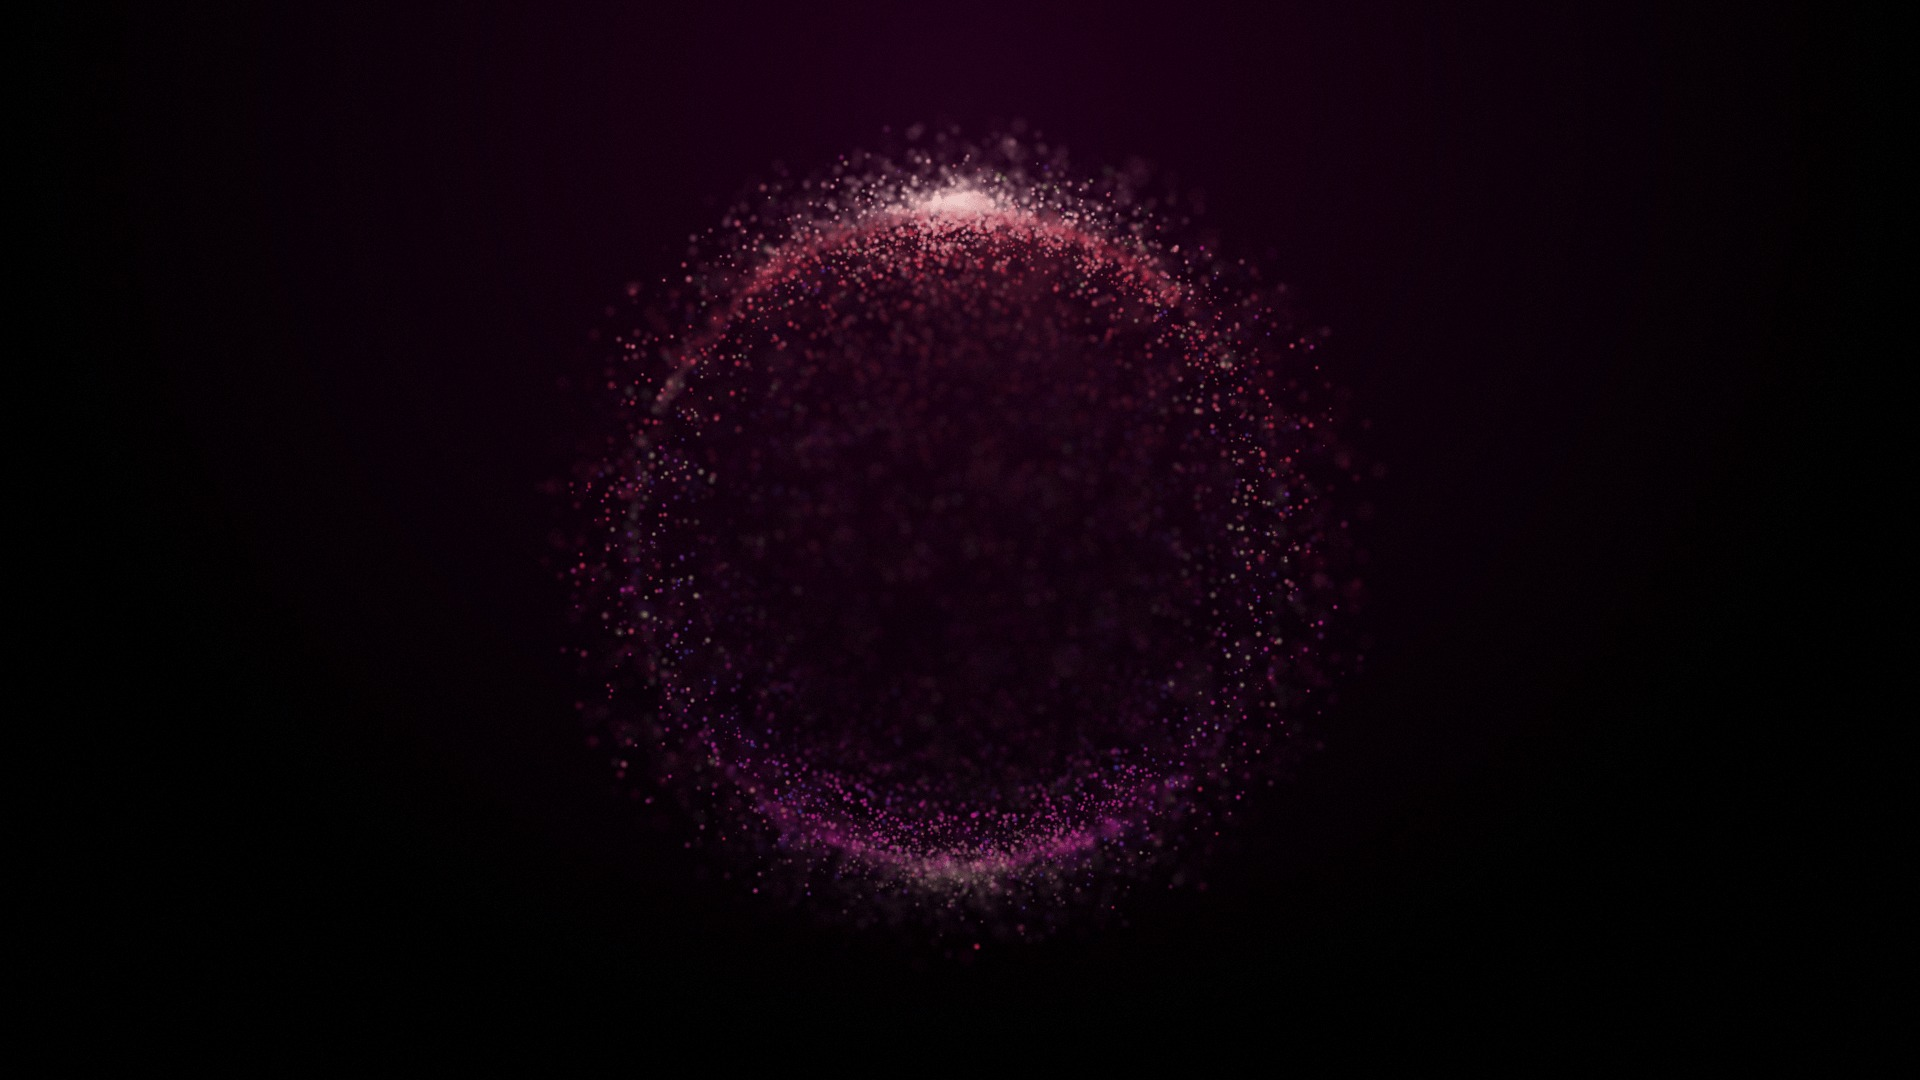
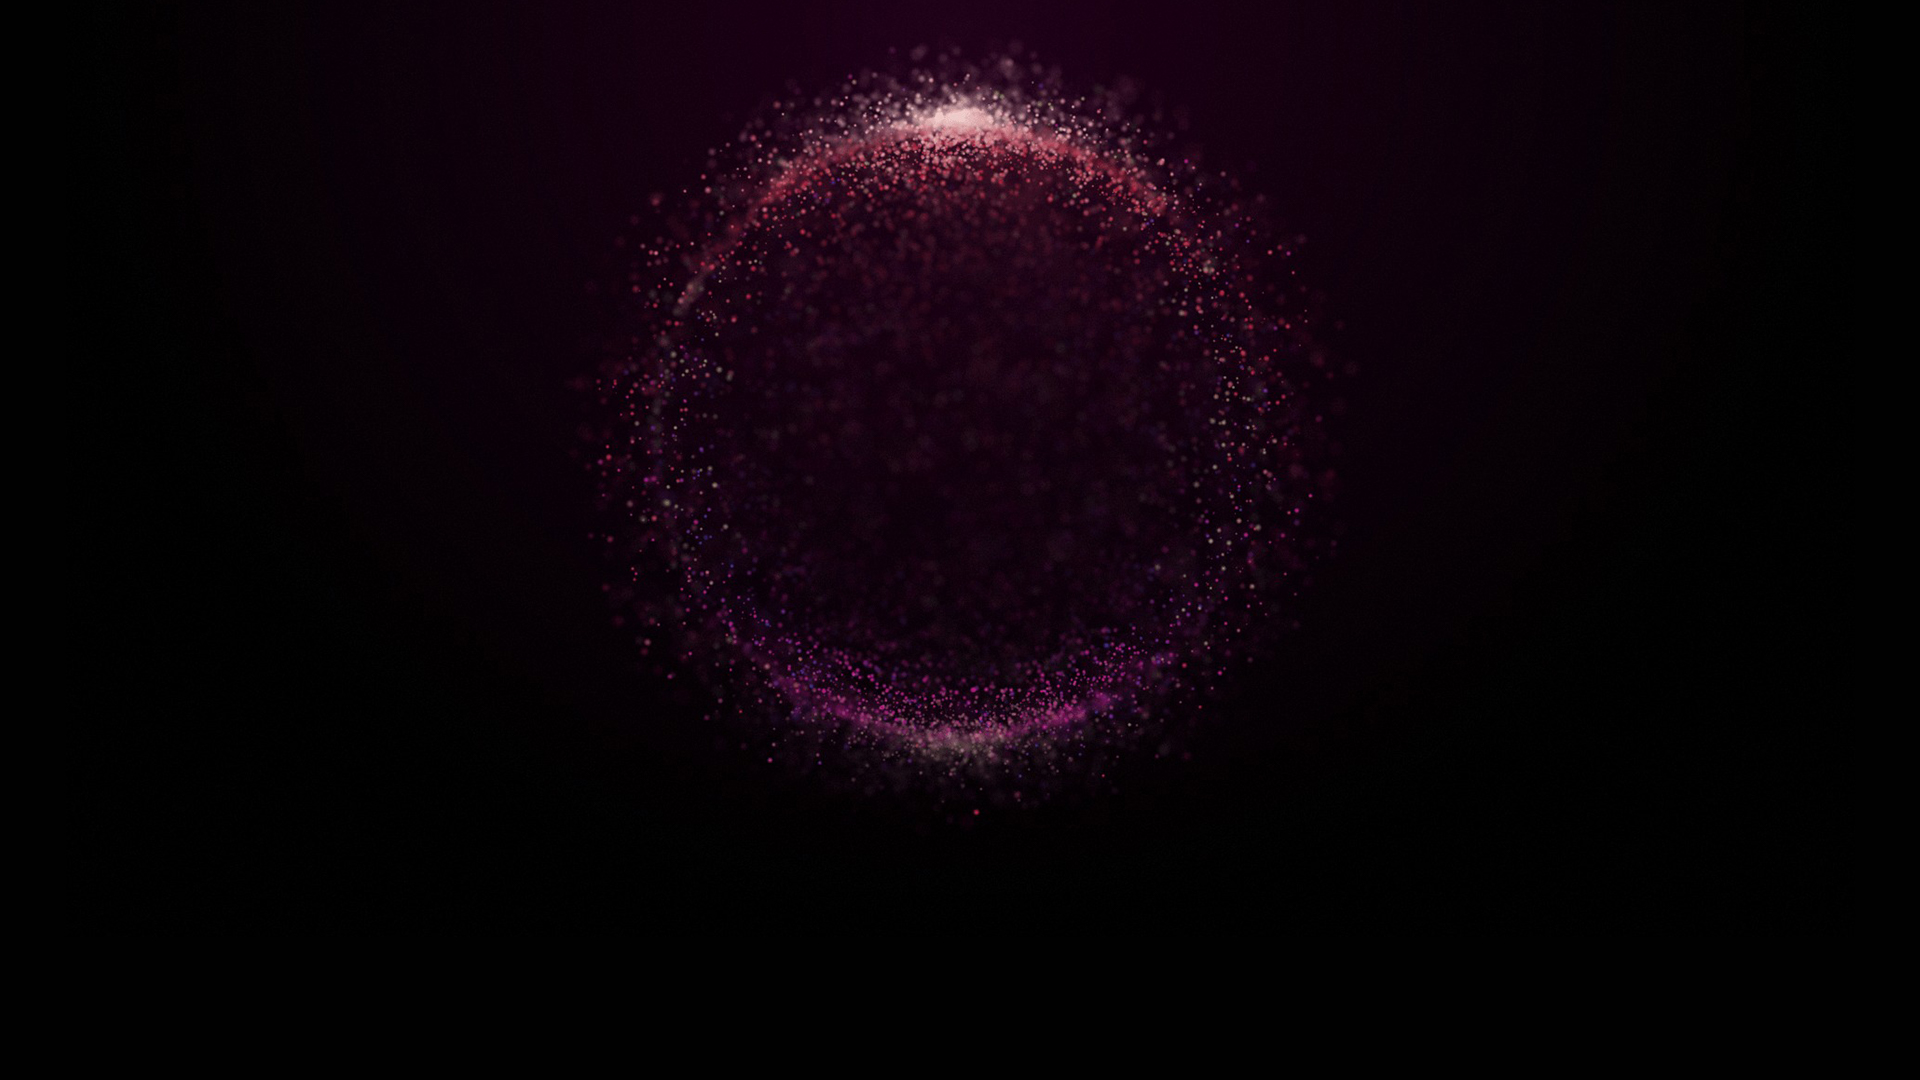
Final v1

Changed region(s): [[0.2812, 0.0611, 0.6875, 0.8556]]

diff --git a/index.html b/index.html
@@ -33,11 +33,11 @@
 
 	<div id="stick-detect"></div>
 	<div class="buttons">
-			<a class="logo">C T O C</a>
-			<a href="#speaker-start" >Speakers</a>
-			<a href="#schedule-start" >Schedule</a>
-			<a href="#map-start" >Location</a>
-			<a href="#modal" >Register</a>
+				<img src="logo.png" width="100" height="26" class="logo">
+				<a href="#speaker-start" >Speakers</a>
+				<a href="#schedule-start" >Schedule</a>
+				<a href="#map-start" >Location</a>
+				<a href="#modal" >Register</a>
 	</div>
 
 	<div class="main">
@@ -49,19 +49,8 @@
 					<h4>University at Texas Austin<br />
 						Computer Science</h4>
 					<p>I'm David J. Bruton Centennial Professor of Computer Science at the University of Texas at Austin. My research interests center around the capabilities and limits of quantum computers, and computational complexity theory more generally.</p>
-					<p><a class="link" href="https://www.scottaaronson.com/">More about Scott</a></p>
+					<p><a class="link" href="https://www.scottaaronson.com/" target="_blank">More about Scott</a></p>
 				</div>
-
-
-				<div class="card">
-					<img src="ryan.jpg">
-					<h3>Ryan<br />Williams</h3>
-					<h4>MIT<br/>
-						Computer Science</h4>
-					<p>I got a PhD from Carnegie Mellon and I was an undergrad at Cornell. In general, I try to understand what is easy and what is hard to compute. I work in algorithm design and complexity theory, and I especially like connections between the two subjects. </p>
-					<p><a class="link" href="https://people.csail.mit.edu/rrw/">More about Ryan</a></p>
-				</div>
-
 
 				<div class="card">
 					<img src="sipser.jpg">
@@ -69,9 +58,17 @@
 					<h4>MIT<br/>
 						Mathematics</h4>
 					<p>I am Professor of Mathematics and member of the Computer Science at MIT. My research areas are in algorithms and complexity theory, interactive proof systems, randomness, quantum computation, establishing inherent computational difficulty of problems.</p>
-					<p><a class="link" href="http://www-math.mit.edu/~sipser/">More about Michael</a></p>
+					<p><a class="link" href="http://www-math.mit.edu/~sipser/" target="_blank">More about Michael</a></p>
 				</div>
 
+				<div class="card">
+					<img src="cook.jpg">
+					<h3>Stephen<br />Cook</h3>
+					<h4>University of Toronto<br/>
+						Computer Science</h4>
+					<p>I am computer scientist and mathematician who has made major contributions to the fields of complexity theory and proof complexity. I am a university professor at the University of Toronto, Department of Computer Science and Department of Mathematics.</p>
+					<p><a class="link" href="http://www.cs.toronto.edu/~sacook/" target="_blank">More about Stephen</a></p>
+				</div>
 
 				<div class="card">
 					<img src="christos.jpg">
@@ -79,7 +76,7 @@
 					<h4>Columbia University<br/>
 						Computer Science</h4>
 					<p>I am best known for my work in computational complexity, helping to expand its methodology and reach. I have also explored other fields, having contributed to biology and the theory of evolution, economics, and game theory, artificial intelligence.</p>
-					<p><a class="link" href="https://engineering.columbia.edu/faculty/christos-papadimitriou">More about Christos</a></p>
+					<p><a class="link" href="https://engineering.columbia.edu/faculty/christos-papadimitriou" target="_blank">More about Christos</a></p>
 				</div>
 		</section>
 
@@ -97,7 +94,7 @@
 					<td class="timeslot">10:00  <br> | <br> 12:00</td>
 					<td><h5>Scott Aaronson</h5> Quantum Computing since Democritus </td>
 					<td><h5>Michael Sipser</h5> The Complexity of Finite Functions </td>
-					<td><h5>Ryan Williams</h5> Hardness Magnification for all Sparse NP Languages </td>				
+					<td><h5>Stephen Cook</h5> Hardness Magnification for all Sparse NP Languages </td>				
 				</tr>
 
 				<tr>
@@ -125,7 +122,7 @@
 					<td class="timeslot">16:00  <br> | <br> 18:00</td>
 					<td><h5>Christos Papadimitrou</h5>Combinatorial Optimization: Algorithms and Complexity</td>
 					<td><h5>Scott Aaronson</h5>Why Is Proving P ̸= NP Difficult</td>
-					<td><h5>Ryan Williams</h5>On the NP-Hardness of Computing Circuit Complexity</td>				
+					<td><h5>Stephen Cook</h5>On the NP-Hardness of Computing Circuit Complexity</td>				
 				</tr>
 			</table>
 		</section>
@@ -145,7 +142,7 @@
 					<div class="contact">
 						<div class="contact-left">
 							<p>Email</p>
-							<h4><a href="mailto:ctoc@manchester.edu.uk?subject=feedback">ctoc@manchester.edu.uk</a></h4>
+							<h4><a href="mailto:ctoc@manchester.edu?subject=feedback">ctoc@manchester.edu</a></h4>
 						</div>
 						<div class="contact-right">
 							<p>Phone</p>
@@ -160,7 +157,9 @@
 					</iframe>
 				</div>
 			</section>
-			<footer class="footer">“Sometimes it is the people no one can imagine anything of who do the things no one can imagine.” Alan Turing</footer>
+			<footer class="footer">“Sometimes it is the people no one can imagine anything of who do the things no one can imagine.” Alan Turing
+				<p>Copyright © 2020 CTOC</p>
+			</footer>
 		</div>
 	</div>
 

diff --git a/style.css b/style.css
@@ -21,7 +21,7 @@ body  {
 header	{
 	width: 100%;
 	height: 95%;
-	background-image: url('hero_updated.jpg');
+	background-image: url('hero.jpg');
 	background-size: cover;
 	background-repeat: no-repeat;
 	background-position: top;
@@ -37,7 +37,12 @@ header	{
 	color: rgb(192, 192, 192);
 	line-height: 1.2;
 	text-align: center;
-	padding: 0 0 6% 0;
+}
+
+.menu {
+	display:flex;
+	flex-wrap: wrap;
+	flex-direction: row;
 }
 
 .buttons {
@@ -63,17 +68,19 @@ header	{
   	text-align: center;
 	font-size: 16px;
 	color: rgba(255,255,255);
-	padding: 12px 15px; /* Top Right Bottom Left (if 2 values, only Top/Bottom and Right/Left are set) */
+	padding: 15px 15px; /* Top Right Bottom Left (if 2 values, only Top/Bottom and Right/Left are set) */
 	margin: 0 auto; /* Centralise the button */
 	margin-bottom: 40px;
 	font-weight: 600;
 	transition: all 0.2s ease;
 }
 
-.buttons .logo {
-	background-color: rgba(45, 5, 16, 0.8);
-	border-radius: 50px;
-	font-weight: 600;
+.logo {
+	display: block;
+	padding: 0 0 0 3%;
+	display: block; /* Disable its inline feature */ 
+    margin-top: 12px;
+    margin-left: 26px;
 }
 
 .buttons a:hover {
@@ -95,7 +102,7 @@ h2	{
 	text-align: center;
 	color: rgba(122,131,153,1);
 	margin: 0;
-	padding: 36px 0 25px 0;
+	padding: 2% 0 2% 0;
 }
 
 h3	{
@@ -111,8 +118,8 @@ h4	{
 	font-size: 12px;
 	line-height: 14px;
 	font-weight: 800;
+	color: rgba(122,131,153,1);
 	margin: 0;
-	color: rgba(255,255,255,0.6);
 	padding: 12px 12px 0 12px;
 }
 
@@ -120,7 +127,7 @@ h4	{
 	font-size: 14px;
 	line-height: 20px;
 	font-weight: 400;
-	color: rgba(122,131,153,1);
+	color: rgba(255,255,255,0.7);
 	margin: 0;
 	padding: 12px;
 }
@@ -158,10 +165,11 @@ header p	{
 
 .link {
 	text-decoration: none; /* Remove the underline in link */
-	color: rgba(255,255,255,0.8);
+	color: rgba(122,131,153,1);
 	width: 82px;
 	box-shadow:	0px 0px 0px rgba(0,0,0,0.5); /* Shadow */
 	font-size: 12px;
+	font-weight: 800;
 }
 
 .schedule {
@@ -314,22 +322,15 @@ textarea::-webkit-input-placeholder {
 }
 
 .map {
-	height:550px;
+	height: 550px;
 	overflow: hidden;
 	position: relative;
 	display: flex;
 }
 
-#map-start {
-  	background: linear-gradient(rgba(0,0,0,.85), rgba(0,0,0,.85)), url("mid3.jpg");
-}
-
 .googlemap {
-	position: absolute;
-	height: 66%;
-	width: 35%;
-	right: 10%;
-	top: 0;
+	height: 75%;
+	width: 70%;
 	margin-top: 20px;
 	filter: contrast(1);
 	box-shadow:	0px 0px 0px rgba(0,0,0,0.5); /* Shadow */
@@ -337,7 +338,7 @@ textarea::-webkit-input-placeholder {
 }
 
 .column-left {
-	margin-left: 17%;
+	margin-left: 15%;
   	flex: 45%;
 }
 .column-right {
@@ -377,10 +378,10 @@ textarea::-webkit-input-placeholder {
   	flex: 20%;
 }
 .contact-left a {
-	text-decoration: none; /* Remove the underline in link */
+	text-decoration: none;
 	font-size: 16px;
 	color: rgba(255,255,255, 0.8);
-	margin: 0 auto; /* Centralise the button */
+	margin: 0 auto; 
 	transition: all 0.2s ease;
 }
 .contact-right {
@@ -390,29 +391,63 @@ textarea::-webkit-input-placeholder {
 .footer {
     text-align: center;
     height: 5%;
+    padding: 0% 3% 0.5% 3%;
     color: #7a8399;
-    padding-bottom: 20px;
     font-style: italic;
 }
 
-@media	(max-width: 840px)	{
-	.two_columns	{
-		width: 85%;
+
+@media	(max-width: 1500px)	{
+	.herotext {
+		top: -10%;
+		position: relative;
 	}
+	.modalBox > div	{ 
+		width: 30%;
+		height: 50%;
+	}
+}
+
+@media	(max-width: 840px)	{
 	.card	{
 		flex-basis: 45%;
 	}
+	.map {
+		flex-direction: column;
+		height: 900px;
+	}
+	.googlemap {
+		margin: 80px;
+	}
+
+
+
 }
 @media	(max-width: 630px)	{ /* 1260 / 2 */
 	.column	{
 		flex-basis: 90%; /* column becomes single-column */
 	}
-	h1	{
-		text-align: left;
-		padding-left: 10%;
-		font-size: 30px;
-	}
 	.card	{
 		flex-basis: 92%;
 	}
+	.contact {
+		flex-direction: column;
+	}
+	.modalBox > div	{ 
+			width: 50%;
+			height: 60%;
+	}
 }
+
+@media (max-width: 420px )	{ /* 1260 / 3 */
+	.modalBox > div	{ 
+			width: 50%;
+			height: 70%;
+	}
+}
+
+
+
+
+
+
